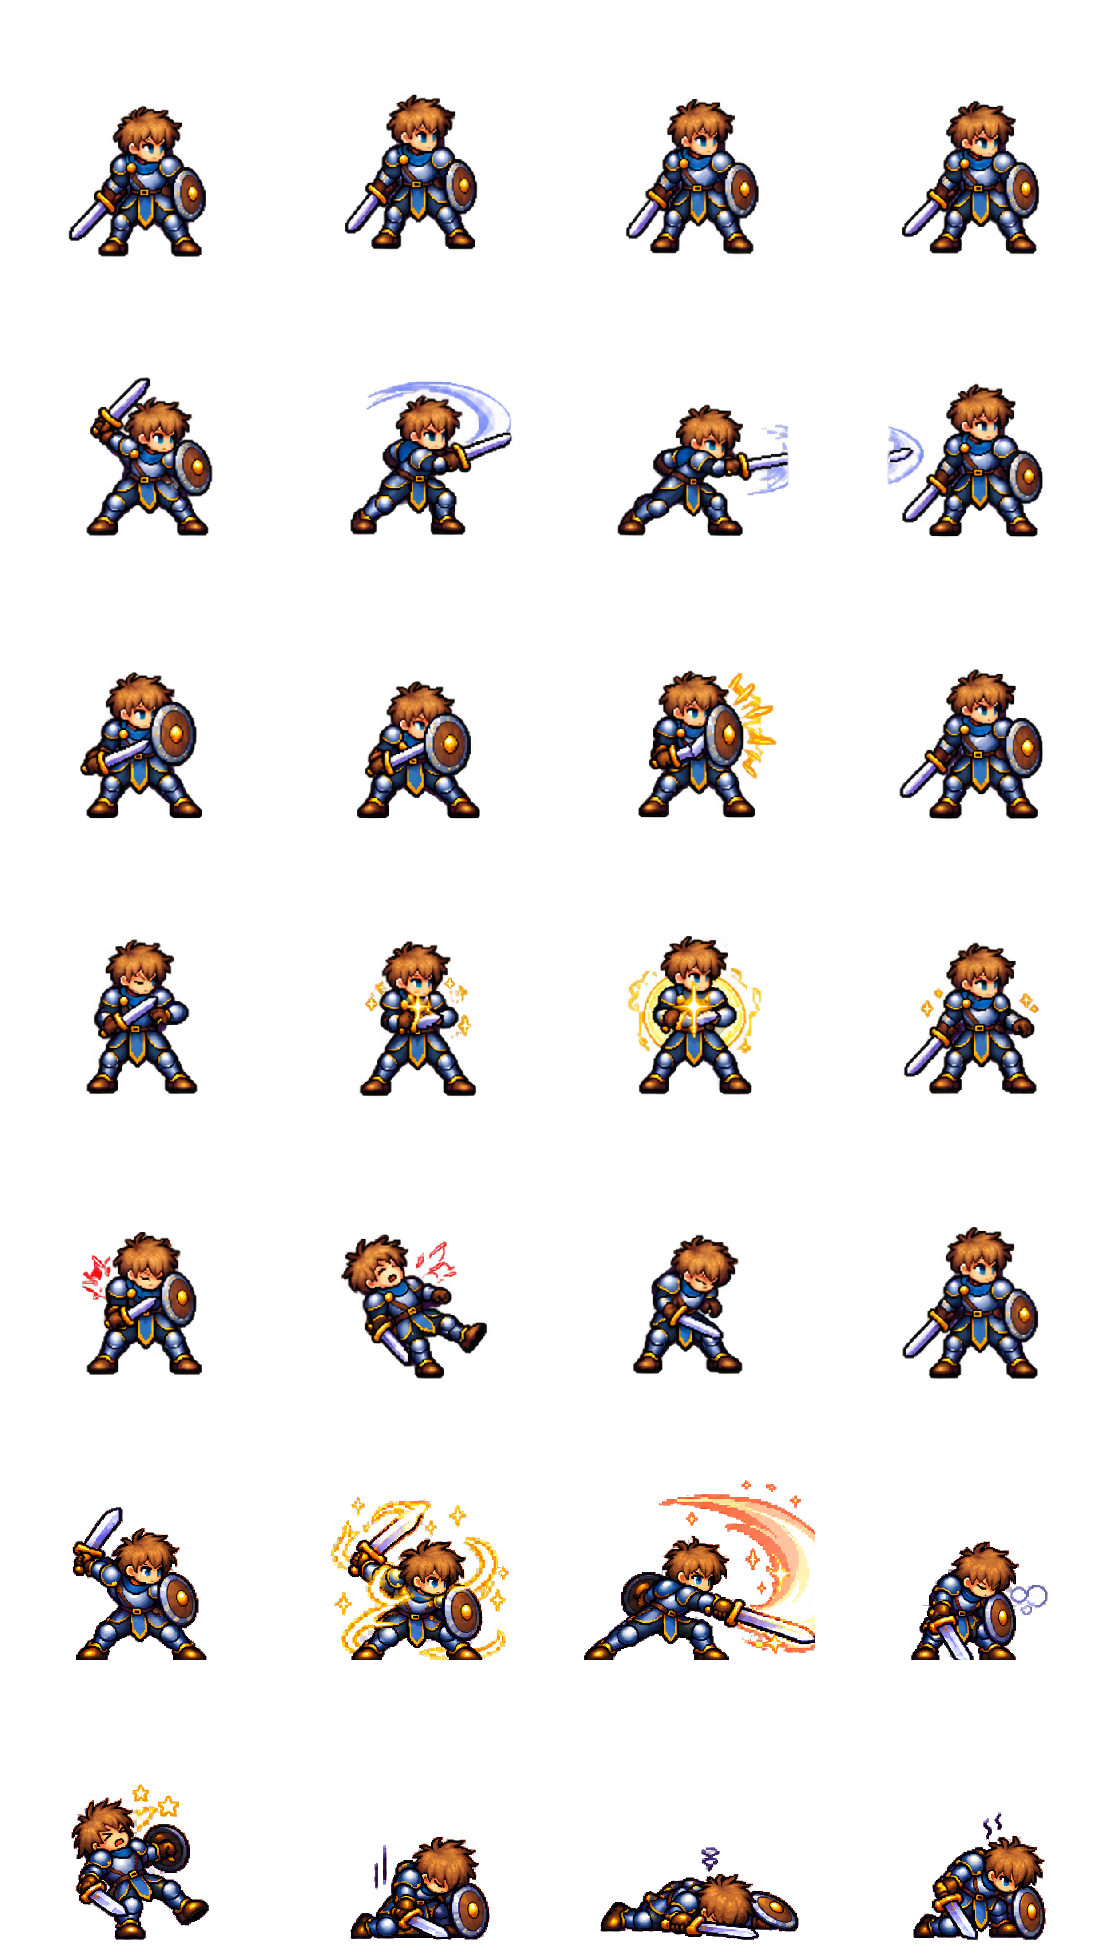
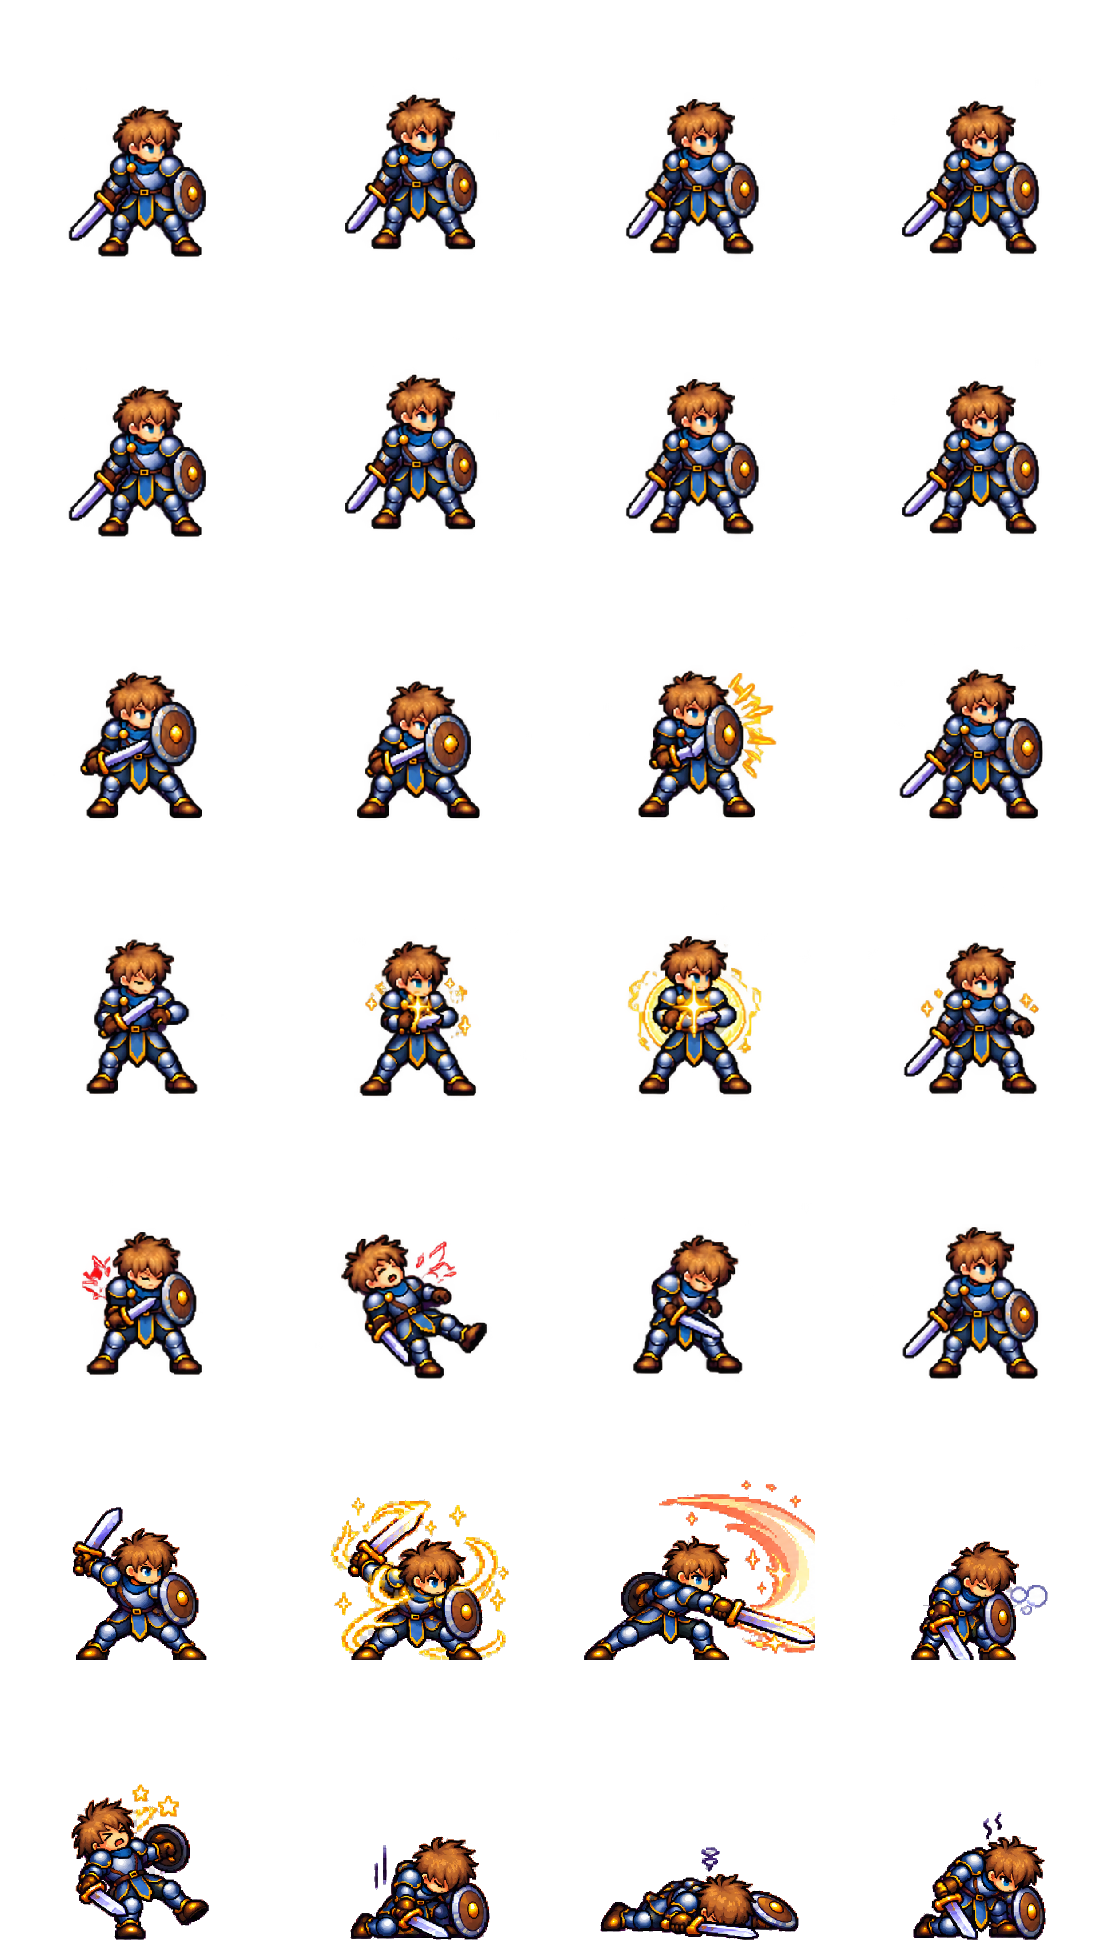
Fix player combat facing and feedback

diff --git a/game.js b/game.js
@@ -258,9 +258,10 @@ class BootScene extends Phaser.Scene {
       }
       this.anims.create({
         key: `novice-${row}`,
-        frames: [0, 1, 2, 3].map(column => ({ key: 'novice-combat-sheet', frame: `${row}-${column}` })),
-        frameRate: row === 'attack' || row === 'hurt' ? 12 : 9,
-        repeat: row === 'idle' ? -1 : 0,
+        // 다운은 쓰러짐·회복 프레임을 왕복해 쓰러진 뒤에도 생동감을 남긴다.
+        frames: (row === 'down' ? [0, 1, 2, 3, 2, 1] : [0, 1, 2, 3]).map(column => ({ key: 'novice-combat-sheet', frame: `${row}-${column}` })),
+        frameRate: row === 'down' ? 3 : (row === 'attack' || row === 'hurt' ? 12 : 9),
+        repeat: row === 'idle' || row === 'down' ? -1 : 0,
       });
     });
     const goblinCombat = this.textures.get('goblin-combat-sheet');
@@ -341,7 +342,7 @@ class BattleScene extends Phaser.Scene {
     this.buildBackground();
     this.buildUi();
     this.resetBattle();
-    this.events.once('shutdown', () => audio.stopAll());
+    this.events.once('shutdown', () => { this.stopDownMotion(); audio.stopAll(); });
   }
 
   text(x, y, value, size = 14, color = '#f8f1ff', align = 'left') {
@@ -356,12 +357,39 @@ class BattleScene extends Phaser.Scene {
 
   setPlayerPose(pose, hold = false) {
     if (!this.playerFigure?.active) return;
+    // 전투 시트는 왼쪽 원본 방향이다. 어떤 행동 프레임으로 바뀌어도
+    // 좌측 기사는 항상 오른쪽의 적을 바라보게 고정한다.
+    this.playerFigure.setFlipX(true);
+    if (pose === 'down') this.startDownMotion();
+    else this.stopDownMotion();
     this.playerFigure.play(`novice-${pose}`, true);
     if (!hold && pose !== 'idle') {
       this.playerFigure.once(Phaser.Animations.Events.ANIMATION_COMPLETE, () => {
         if (!this.over && !this.isDown()) this.playerFigure.play('novice-idle', true);
       });
     }
+  }
+
+  startDownMotion() {
+    if (this.downMotion || !this.playerFigure?.active) return;
+    this.downRestingY = this.playerFigure.y;
+    this.downMotion = this.tweens.add({
+      targets: this.playerFigure,
+      y: this.downRestingY + 3,
+      angle: -2,
+      duration: 480,
+      yoyo: true,
+      repeat: -1,
+      ease: 'Sine.InOut',
+    });
+  }
+
+  stopDownMotion() {
+    if (!this.downMotion) return;
+    this.downMotion.stop();
+    this.downMotion = null;
+    if (this.playerFigure?.active) this.playerFigure.setY(this.downRestingY ?? this.playerFigure.y).setAngle(0);
+    this.downRestingY = null;
   }
 
   setEnemyPose(pose, hold = false) {
@@ -664,6 +692,46 @@ class BattleScene extends Phaser.Scene {
     });
   }
 
+  playPlayerSlashTrail(emphatic = false) {
+    // 내장 attack 시트의 검기는 프레임 가장자리에서 좌우로 튀어 보일 수 있어,
+    // 플레이어의 전방(오른쪽)에만 독립 검기를 두고 짧게 전진시킨다.
+    const startX = this.playerFigure.x + (emphatic ? 82 : 70);
+    const effect = pixelSprite(this, startX, this.playerFigure.y - 6, 'combat-effects', 'attack', emphatic ? 84 : 62)
+      .setOrigin(.5).setDepth(14).setTint(0xf8f1ff).setAlpha(.9);
+    const baseScale = effect.scaleX;
+    this.tweens.add({
+      targets: effect,
+      x: startX + (emphatic ? 42 : 32),
+      alpha: 0,
+      scaleX: baseScale * 1.18,
+      scaleY: baseScale * 1.18,
+      duration: emphatic ? 260 : 210,
+      ease: 'Quad.Out',
+      onComplete: () => effect.destroy(),
+    });
+  }
+
+  collapseEnemyCharge() {
+    if (!this.enemyFigure?.active) return;
+    const figure = this.enemyFigure;
+    const baseScaleX = figure.scaleX;
+    const baseScaleY = figure.scaleY;
+    figure.setTint(0xffd56a);
+    this.playEffect('rhythm', figure.x, figure.y - 42, 116, true, 520, 16);
+    this.playEffect('attack', figure.x - 44, figure.y - 4, 92, true, 420, 16);
+    this.tweens.add({
+      targets: figure,
+      scaleX: baseScaleX * .9,
+      scaleY: baseScaleY * .9,
+      angle: -10,
+      duration: 120,
+      yoyo: true,
+      hold: 160,
+      ease: 'Quad.Out',
+      onComplete: () => { if (figure?.active) figure.setScale(baseScaleX, baseScaleY).setAngle(0).clearTint(); },
+    });
+  }
+
   pulseRhythm(emphatic = false) {
     this.tweens.add({
       targets: [...this.rhythmBoxes, this.rhythmText],
@@ -774,8 +842,13 @@ class BattleScene extends Phaser.Scene {
       this.setEnemyPose('hurt', true);
       this.flashCombatant('enemy', 0xeb5b67, outcome.action === 'finisher');
     }
+    if (outcome.chargeInterrupted) {
+      this.collapseEnemyCharge();
+      this.showFloatingText(this.enemyFigure.x, this.enemyFigure.y - 92, '차단!', '#ffd56a', true);
+    }
     // 왼쪽의 기사가 내리친 지점에 효과를 두어, 방어 중인 적의 몸통·가드 효과를 덮지 않는다.
-    const impactX = this.enemyFigure.x - (guarded ? 155 : 88);
+    // 가드 중 고블린의 몸통·가드 파형보다 왼쪽, 즉 양측 사이에서만 충돌시킨다.
+    const impactX = this.enemyFigure.x - (guarded ? 172 : 88);
     this.playEffect('attack', impactX, this.enemyFigure.y - 4, outcome.action === 'finisher' ? 112 : (guarded ? 60 : 78), outcome.action === 'finisher', undefined, 6);
     this.showFloatingText(this.enemyFigure.x, this.enemyFigure.y - 58, `-${outcome.playerDamage}`, '#ffb1b8', outcome.action === 'finisher');
   }
@@ -789,13 +862,16 @@ class BattleScene extends Phaser.Scene {
       this.showGuard('player', true);
       this.animateGuardParry('player');
     }
-    else this.flashCombatant('player', 0xeb5b67, false);
+    else {
+      this.setPlayerPose('hurt', true);
+      this.flashCombatant('player', 0xeb5b67, false);
+    }
     this.showFloatingText(this.playerFigure.x, this.playerFigure.y - 58, `-${outcome.enemyDamage}`, blocked ? '#9fdcff' : '#ffb1b8', blocked);
     if (outcome.causesDown) this.setPlayerPose('down', true);
     audio.play(blocked ? 'defend' : 'hit');
   }
 
-  finishTutorialTurn(outcome) {
+  finishTutorialTurn(outcome, fromPointer = false) {
     this.resolutionPhase = 'complete';
     if (this.enemyHp <= 0) { this.finish(true, `${outcome.line}\n${this.enemyConfig.logName}을 쓰러뜨렸다!`); return; }
     if (this.playerHp <= 0) { this.finish(false, `${outcome.line}\n수습 기사가 쓰러졌다…`); return; }
@@ -821,11 +897,20 @@ class BattleScene extends Phaser.Scene {
     if (this.isDown()) this.setPlayerPose('down', true);
     else if (outcome.startedDown) {
       this.setPlayerPose('hurt', true);
-      this.scheduleResolution(260, () => { if (!this.over) this.setPlayerPose('idle', true); });
+      this.scheduleResolution(380, () => { if (!this.over) this.setPlayerPose('idle', true); });
     } else this.setPlayerPose('idle', true);
     this.setEnemyPose('idle', true);
     this.resetGoblinPose();
-    this.inputLocked = false;
+    // 다운 뒤 행동은 일어서는 프레임을 읽은 뒤에만 다시 누를 수 있게 한다.
+    if (fromPointer && outcome.startedDown && !outcome.causesDown) {
+      this.inputLocked = true;
+      this.scheduleResolution(380, () => {
+        if (!this.over) {
+          this.inputLocked = false;
+          this.updateActionInputs();
+        }
+      });
+    } else this.inputLocked = false;
     this.render();
   }
 
@@ -836,6 +921,7 @@ class BattleScene extends Phaser.Scene {
     const beginPlayerStrike = () => {
       this.setPlayerPose(action === 'finisher' ? 'heavy' : 'attack', true);
       this.animateLunge('player', action === 'finisher');
+      if (action === 'attack') this.playPlayerSlashTrail();
       if (action === 'finisher') this.cameras.main.shake(110, .004);
       audio.play(action === 'finisher' ? 'finisher' : 'attack');
     };
@@ -854,7 +940,7 @@ class BattleScene extends Phaser.Scene {
     };
     const beginPlayerGuard = () => { this.setPlayerPose('guard', true); this.showGuard('player'); };
     const beginFocus = () => { this.setPlayerPose('focus', true); audio.play('focus'); };
-    const finish = () => this.finishTutorialTurn(outcome);
+    const finish = () => this.finishTutorialTurn(outcome, fromPointer);
 
     if (!fromPointer) {
       if (outcome.enemy.key === 'defend') this.showEnemyGuard();
@@ -878,14 +964,14 @@ class BattleScene extends Phaser.Scene {
       if (playerStrike) {
         this.scheduleResolution(360, beginPlayerStrike);
         this.scheduleResolution(360 + strikeDuration, () => this.applyTutorialEnemyHit(outcome));
-        this.scheduleResolution(action === 'finisher' ? 1320 : 1180, finish);
+        this.scheduleResolution(action === 'finisher' ? 1380 : 1280, finish);
       } else if (action === 'defend') {
         beginPlayerGuard();
         this.scheduleResolution(980, finish);
       } else {
         beginFocus();
         this.scheduleResolution(420, this.showEnemyGuard.bind(this));
-        this.scheduleResolution(1050, finish);
+        this.scheduleResolution(1150, finish);
       }
       return;
     }
@@ -907,18 +993,18 @@ class BattleScene extends Phaser.Scene {
       beginPlayerGuard();
       this.scheduleResolution(440, beginEnemyStrike);
       this.scheduleResolution(780, () => this.applyTutorialPlayerHit(outcome));
-      this.scheduleResolution(1200, finish);
+      this.scheduleResolution(1280, finish);
     } else if (action === 'focus') {
       beginFocus();
       this.scheduleResolution(460, beginEnemyStrike);
       this.scheduleResolution(800, () => this.applyTutorialPlayerHit(outcome));
-      this.scheduleResolution(1250, finish);
+      this.scheduleResolution(1350, finish);
     } else {
       beginPlayerStrike();
       this.scheduleResolution(strikeDuration, () => this.applyTutorialEnemyHit(outcome));
       this.scheduleResolution(420 + strikeDuration, beginEnemyStrike);
       this.scheduleResolution(760 + strikeDuration, () => this.applyTutorialPlayerHit(outcome));
-      this.scheduleResolution(1140 + strikeDuration, finish);
+      this.scheduleResolution(1220 + strikeDuration, finish);
     }
   }
 
